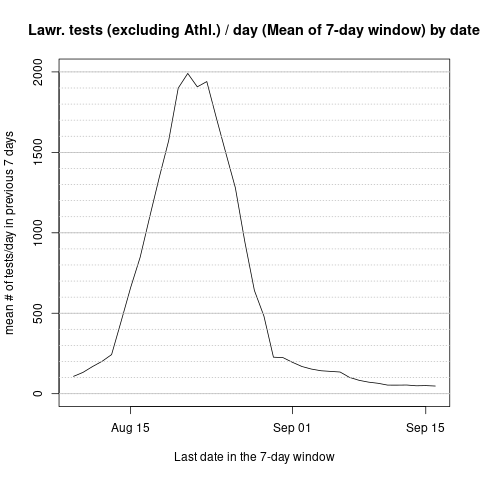
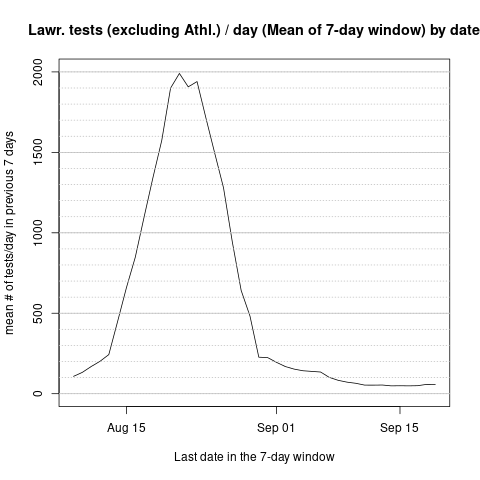
Reports to Sept 20

diff --git a/README.md b/README.md
@@ -23,10 +23,12 @@ Currently the reports are for the periods:
   * [August 1 to Sept 10](https://protect.ku.edu/sites/protect/files/documents/Dashboard/COVID-19_Dashboard_Aug1toSept10.pdf)
   * [August 1 to Sept 13](https://protect.ku.edu/sites/protect/files/documents/Dashboard/COVID-19_Dashboard_Aug1toSept13.pdf)
   * [August 1 to Sept 16](https://protect.ku.edu/sites/protect/files/documents/Dashboard/COVID-19_Dashboard_Aug1toSept16.pdf)
+  * [August 1 to Sept 20](https://protect.ku.edu/sites/protect/files/documents/Dashboard/COVID-19_Dashboard_Aug1toSept20.pdf)
   * [Sept 3 to Sept 9](https://protect.ku.edu/sites/protect/files/documents/Dashboard/COVID-19_Dashboard_Sept3toSept9.pdf)
   * [Sept 7 to Sept 13](https://protect.ku.edu/sites/protect/files/documents/Dashboard/COVID-19_Dashboard_Sept7toSept13.pdf)
   * [Sept 7 to Sept 13](https://protect.ku.edu/sites/protect/files/documents/Dashboard/COVID-19_Dashboard_Sept7toSept13.pdf)
    * [Sept 10 to Sept 16](https://protect.ku.edu/sites/protect/files/documents/Dashboard/COVID-19_Dashboard_Sept10toSept16.pdf)
+   * [Sept 14 to Sept 20](https://protect.ku.edu/sites/protect/files/documents/Dashboard/COVID-19_Dashboard_Sept14toSept20.pdf)
  
 None of the reports trace the test-positivity percentage over time, which I was interested in.
 For a time-series of test-positivity rates to be easily interpreted as a proxy of the campus-wide prevalence of SARS-CoV-2 infections, it is important to either have detailed knowledge of the biases associated with targeted testing, or to focus on the entry tests and "randomized prevalence testing."
